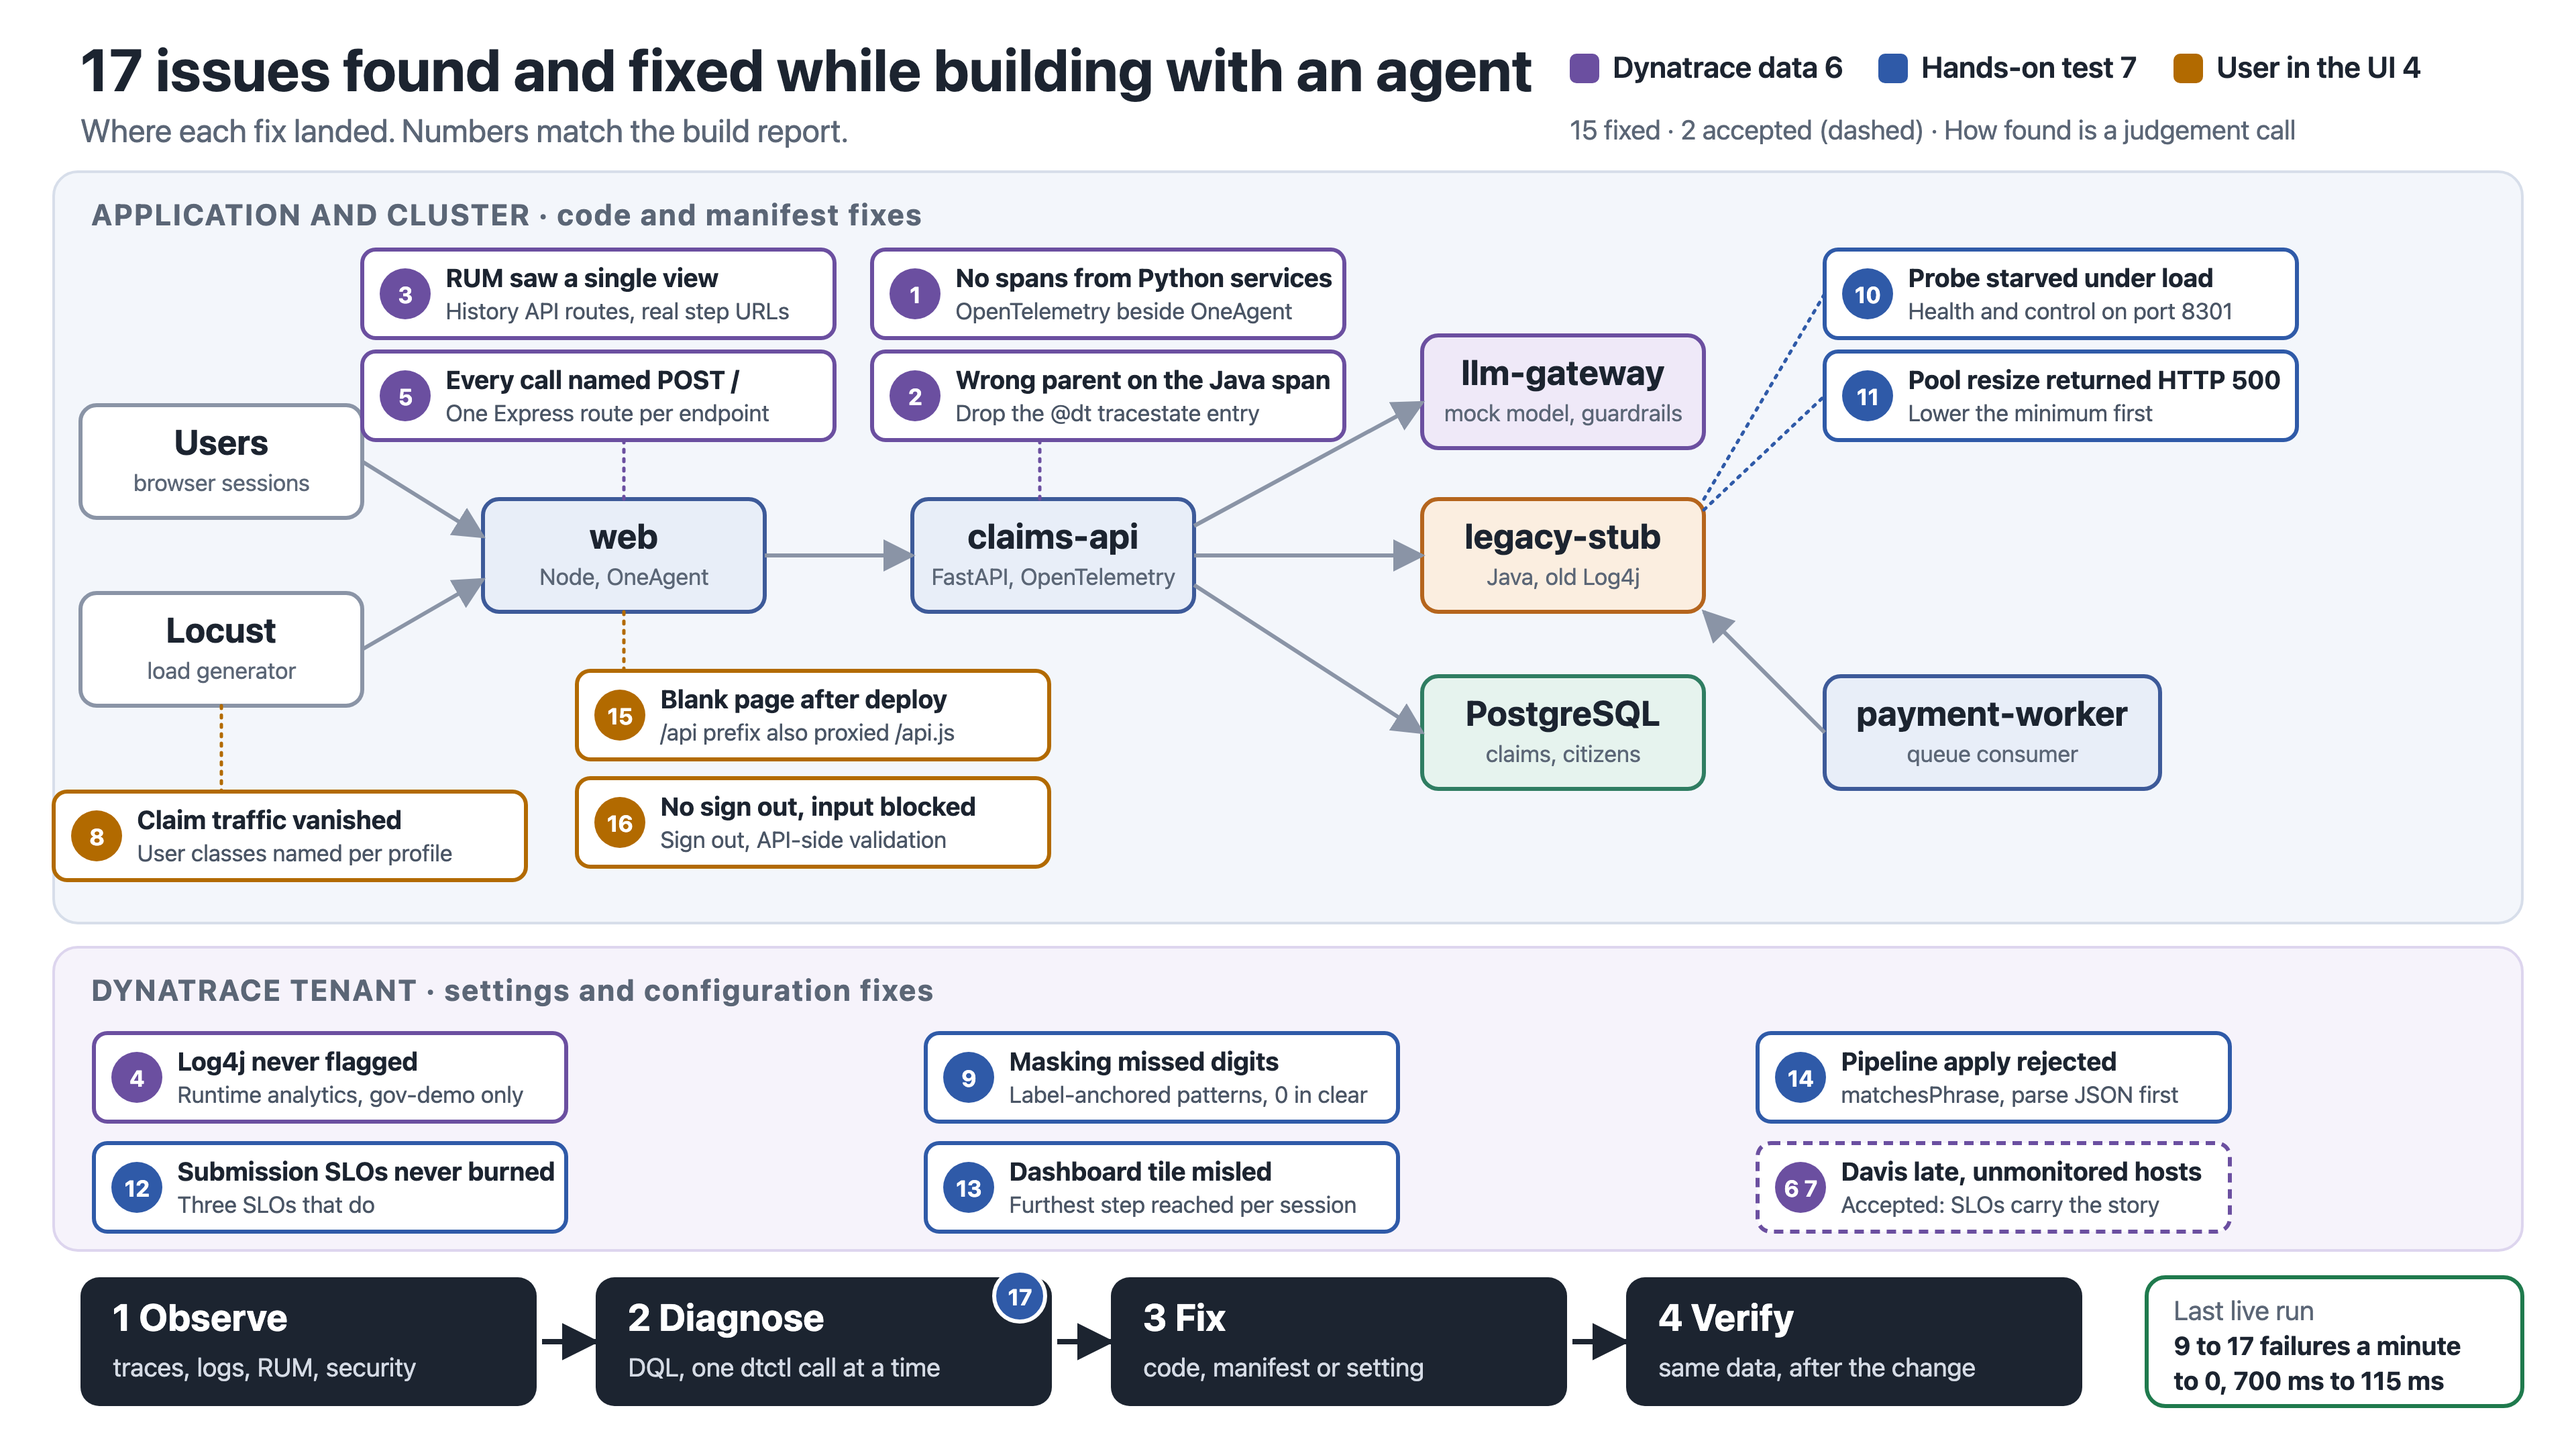
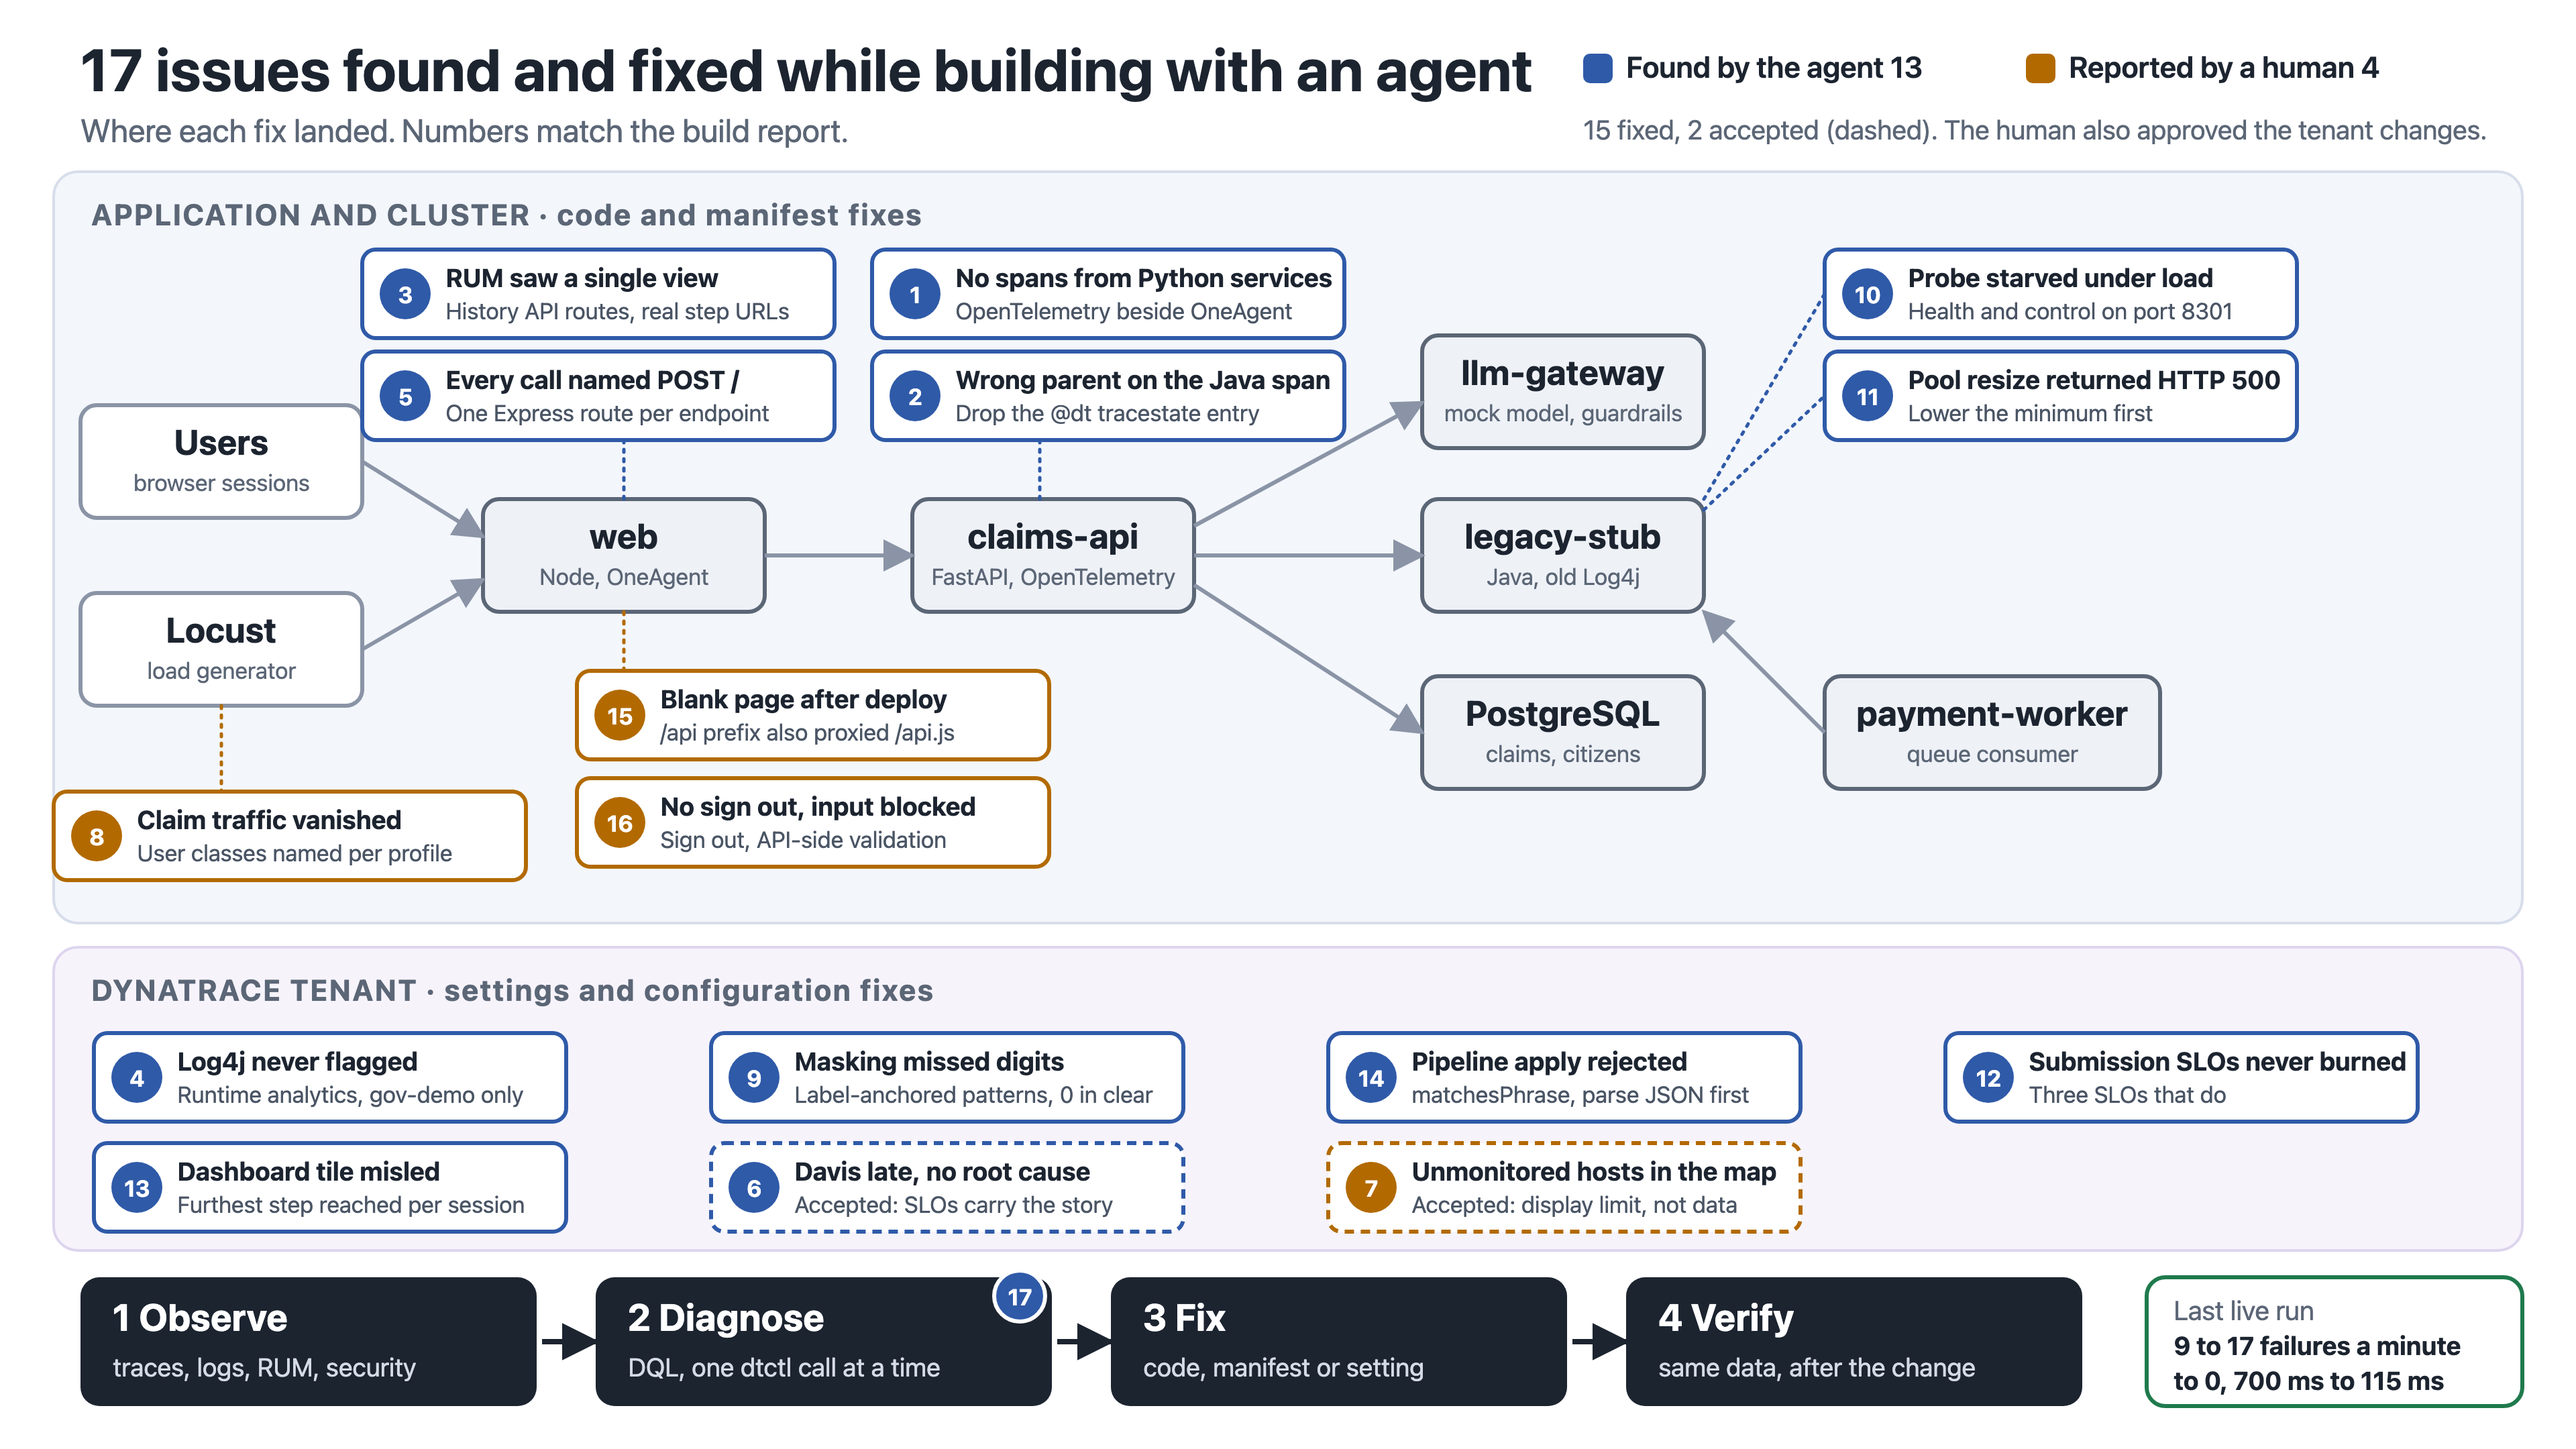
Slide: agent versus human, neutral service boxes, split Davis and topology boxes

diff --git a/gov-demo/docs/fixes-slide.html b/gov-demo/docs/fixes-slide.html
@@ -31,22 +31,22 @@
 <rect x="60" y="442" width="210" height="84" rx="12" fill="#fff" stroke="#8a94a6" stroke-width="3"/>
 <text x="165.0" y="479" class="nn" text-anchor="middle">Locust</text>
 <text x="165.0" y="506" class="ns" text-anchor="middle">load generator</text>
-<rect x="360" y="372" width="210" height="84" rx="12" fill="#e8eef8" stroke="#3d5a99" stroke-width="3"/>
+<rect x="360" y="372" width="210" height="84" rx="12" fill="#eef1f6" stroke="#5b6676" stroke-width="3"/>
 <text x="465.0" y="409" class="nn" text-anchor="middle">web</text>
 <text x="465.0" y="436" class="ns" text-anchor="middle">Node, OneAgent</text>
-<rect x="680" y="372" width="210" height="84" rx="12" fill="#e8eef8" stroke="#3d5a99" stroke-width="3"/>
+<rect x="680" y="372" width="210" height="84" rx="12" fill="#eef1f6" stroke="#5b6676" stroke-width="3"/>
 <text x="785.0" y="409" class="nn" text-anchor="middle">claims-api</text>
 <text x="785.0" y="436" class="ns" text-anchor="middle">FastAPI, OpenTelemetry</text>
-<rect x="1060" y="250" width="210" height="84" rx="12" fill="#efe9f8" stroke="#6b4fa0" stroke-width="3"/>
+<rect x="1060" y="250" width="210" height="84" rx="12" fill="#eef1f6" stroke="#5b6676" stroke-width="3"/>
 <text x="1165.0" y="287" class="nn" text-anchor="middle">llm-gateway</text>
 <text x="1165.0" y="314" class="ns" text-anchor="middle">mock model, guardrails</text>
-<rect x="1060" y="372" width="210" height="84" rx="12" fill="#fbeee0" stroke="#b5651d" stroke-width="3"/>
+<rect x="1060" y="372" width="210" height="84" rx="12" fill="#eef1f6" stroke="#5b6676" stroke-width="3"/>
 <text x="1165.0" y="409" class="nn" text-anchor="middle">legacy-stub</text>
 <text x="1165.0" y="436" class="ns" text-anchor="middle">Java, old Log4j</text>
-<rect x="1060" y="504" width="210" height="84" rx="12" fill="#e6f3ee" stroke="#2f7d62" stroke-width="3"/>
+<rect x="1060" y="504" width="210" height="84" rx="12" fill="#eef1f6" stroke="#5b6676" stroke-width="3"/>
 <text x="1165.0" y="541" class="nn" text-anchor="middle">PostgreSQL</text>
 <text x="1165.0" y="568" class="ns" text-anchor="middle">claims, citizens</text>
-<rect x="1360" y="504" width="250" height="84" rx="12" fill="#e8eef8" stroke="#3d5a99" stroke-width="3"/>
+<rect x="1360" y="504" width="250" height="84" rx="12" fill="#eef1f6" stroke="#5b6676" stroke-width="3"/>
 <text x="1485.0" y="541" class="nn" text-anchor="middle">payment-worker</text>
 <text x="1485.0" y="568" class="ns" text-anchor="middle">queue consumer</text>
 <line x1="270" y1="344" x2="360" y2="400" class="edge" marker-end="url(#ah)"/>
@@ -56,17 +56,17 @@
 <line x1="890" y1="414" x2="1060" y2="414" class="edge" marker-end="url(#ah)"/>
 <line x1="890" y1="436" x2="1060" y2="546" class="edge" marker-end="url(#ah)"/>
 <line x1="1360" y1="546" x2="1270" y2="456" class="edge" marker-end="url(#ah)"/>
-<rect x="270" y="186" width="352" height="66" rx="10" fill="#fff" stroke="#6b4fa0" stroke-width="3"/>
-<circle cx="302" cy="219.0" r="19" fill="#6b4fa0"/>
+<rect x="270" y="186" width="352" height="66" rx="10" fill="#fff" stroke="#2f5aa8" stroke-width="3"/>
+<circle cx="302" cy="219.0" r="19" fill="#2f5aa8"/>
 <text x="302" y="226.0" class="bn" text-anchor="middle">3</text>
 <text x="332" y="214" class="c1">RUM saw a single view</text>
 <text x="332" y="238" class="c2">History API routes, real step URLs</text>
-<rect x="270" y="262" width="352" height="66" rx="10" fill="#fff" stroke="#6b4fa0" stroke-width="3"/>
-<circle cx="302" cy="295.0" r="19" fill="#6b4fa0"/>
+<rect x="270" y="262" width="352" height="66" rx="10" fill="#fff" stroke="#2f5aa8" stroke-width="3"/>
+<circle cx="302" cy="295.0" r="19" fill="#2f5aa8"/>
 <text x="302" y="302.0" class="bn" text-anchor="middle">5</text>
 <text x="332" y="290" class="c1">Every call named POST /</text>
 <text x="332" y="314" class="c2">One Express route per endpoint</text>
-<line x1="465" y1="328" x2="465" y2="372" stroke="#6b4fa0" stroke-width="2.5" stroke-dasharray="2 5" stroke-linecap="round"/>
+<line x1="465" y1="328" x2="465" y2="372" stroke="#2f5aa8" stroke-width="2.5" stroke-dasharray="2 5" stroke-linecap="round"/>
 <rect x="430" y="500" width="352" height="66" rx="10" fill="#fff" stroke="#b26a00" stroke-width="3"/>
 <circle cx="462" cy="533.0" r="19" fill="#b26a00"/>
 <text x="462" y="540.0" class="bn" text-anchor="middle">15</text>
@@ -78,17 +78,17 @@
 <text x="492" y="608" class="c1">No sign out, input blocked</text>
 <text x="492" y="632" class="c2">Sign out, API-side validation</text>
 <line x1="465" y1="456" x2="465" y2="500" stroke="#b26a00" stroke-width="2.5" stroke-dasharray="2 5" stroke-linecap="round"/>
-<rect x="650" y="186" width="352" height="66" rx="10" fill="#fff" stroke="#6b4fa0" stroke-width="3"/>
-<circle cx="682" cy="219.0" r="19" fill="#6b4fa0"/>
+<rect x="650" y="186" width="352" height="66" rx="10" fill="#fff" stroke="#2f5aa8" stroke-width="3"/>
+<circle cx="682" cy="219.0" r="19" fill="#2f5aa8"/>
 <text x="682" y="226.0" class="bn" text-anchor="middle">1</text>
 <text x="712" y="214" class="c1">No spans from Python services</text>
 <text x="712" y="238" class="c2">OpenTelemetry beside OneAgent</text>
-<rect x="650" y="262" width="352" height="66" rx="10" fill="#fff" stroke="#6b4fa0" stroke-width="3"/>
-<circle cx="682" cy="295.0" r="19" fill="#6b4fa0"/>
+<rect x="650" y="262" width="352" height="66" rx="10" fill="#fff" stroke="#2f5aa8" stroke-width="3"/>
+<circle cx="682" cy="295.0" r="19" fill="#2f5aa8"/>
 <text x="682" y="302.0" class="bn" text-anchor="middle">2</text>
 <text x="712" y="290" class="c1">Wrong parent on the Java span</text>
 <text x="712" y="314" class="c2">Drop the @dt tracestate entry</text>
-<line x1="775" y1="328" x2="775" y2="372" stroke="#6b4fa0" stroke-width="2.5" stroke-dasharray="2 5" stroke-linecap="round"/>
+<line x1="775" y1="328" x2="775" y2="372" stroke="#2f5aa8" stroke-width="2.5" stroke-dasharray="2 5" stroke-linecap="round"/>
 <rect x="1360" y="186" width="352" height="66" rx="10" fill="#fff" stroke="#2f5aa8" stroke-width="3"/>
 <circle cx="1392" cy="219.0" r="19" fill="#2f5aa8"/>
 <text x="1392" y="226.0" class="bn" text-anchor="middle">10</text>
@@ -107,45 +107,48 @@
 <text x="102" y="618" class="c1">Claim traffic vanished</text>
 <text x="102" y="642" class="c2">User classes named per profile</text>
 <line x1="165" y1="526" x2="165" y2="590" stroke="#b26a00" stroke-width="2.5" stroke-dasharray="2 5" stroke-linecap="round"/>
-<rect x="70" y="770" width="352" height="66" rx="10" fill="#fff" stroke="#6b4fa0" stroke-width="3"/>
-<circle cx="102" cy="803.0" r="19" fill="#6b4fa0"/>
+<rect x="70" y="770" width="352" height="66" rx="10" fill="#fff" stroke="#2f5aa8" stroke-width="3"/>
+<circle cx="102" cy="803.0" r="19" fill="#2f5aa8"/>
 <text x="102" y="810.0" class="bn" text-anchor="middle">4</text>
 <text x="132" y="798" class="c1">Log4j never flagged</text>
 <text x="132" y="822" class="c2">Runtime analytics, gov-demo only</text>
-<rect x="690" y="770" width="352" height="66" rx="10" fill="#fff" stroke="#2f5aa8" stroke-width="3"/>
-<circle cx="722" cy="803.0" r="19" fill="#2f5aa8"/>
-<text x="722" y="810.0" class="bn" text-anchor="middle">9</text>
-<text x="752" y="798" class="c1">Masking missed digits</text>
-<text x="752" y="822" class="c2">Label-anchored patterns, 0 in clear</text>
-<rect x="1310" y="770" width="352" height="66" rx="10" fill="#fff" stroke="#2f5aa8" stroke-width="3"/>
-<circle cx="1342" cy="803.0" r="19" fill="#2f5aa8"/>
-<text x="1342" y="810.0" class="bn" text-anchor="middle">14</text>
-<text x="1372" y="798" class="c1">Pipeline apply rejected</text>
-<text x="1372" y="822" class="c2">matchesPhrase, parse JSON first</text>
+<rect x="530" y="770" width="352" height="66" rx="10" fill="#fff" stroke="#2f5aa8" stroke-width="3"/>
+<circle cx="562" cy="803.0" r="19" fill="#2f5aa8"/>
+<text x="562" y="810.0" class="bn" text-anchor="middle">9</text>
+<text x="592" y="798" class="c1">Masking missed digits</text>
+<text x="592" y="822" class="c2">Label-anchored patterns, 0 in clear</text>
+<rect x="990" y="770" width="352" height="66" rx="10" fill="#fff" stroke="#2f5aa8" stroke-width="3"/>
+<circle cx="1022" cy="803.0" r="19" fill="#2f5aa8"/>
+<text x="1022" y="810.0" class="bn" text-anchor="middle">14</text>
+<text x="1052" y="798" class="c1">Pipeline apply rejected</text>
+<text x="1052" y="822" class="c2">matchesPhrase, parse JSON first</text>
+<rect x="1450" y="770" width="352" height="66" rx="10" fill="#fff" stroke="#2f5aa8" stroke-width="3"/>
+<circle cx="1482" cy="803.0" r="19" fill="#2f5aa8"/>
+<text x="1482" y="810.0" class="bn" text-anchor="middle">12</text>
+<text x="1512" y="798" class="c1">Submission SLOs never burned</text>
+<text x="1512" y="822" class="c2">Three SLOs that do</text>
 <rect x="70" y="852" width="352" height="66" rx="10" fill="#fff" stroke="#2f5aa8" stroke-width="3"/>
 <circle cx="102" cy="885.0" r="19" fill="#2f5aa8"/>
-<text x="102" y="892.0" class="bn" text-anchor="middle">12</text>
-<text x="132" y="880" class="c1">Submission SLOs never burned</text>
-<text x="132" y="904" class="c2">Three SLOs that do</text>
-<rect x="690" y="852" width="352" height="66" rx="10" fill="#fff" stroke="#2f5aa8" stroke-width="3"/>
-<circle cx="722" cy="885.0" r="19" fill="#2f5aa8"/>
-<text x="722" y="892.0" class="bn" text-anchor="middle">13</text>
-<text x="752" y="880" class="c1">Dashboard tile misled</text>
-<text x="752" y="904" class="c2">Furthest step reached per session</text>
-<rect x="1310" y="852" width="352" height="66" rx="10" fill="#fff" stroke="#6b4fa0" stroke-width="3" stroke-dasharray="7 5"/>
-<circle cx="1342" cy="885.0" r="19" fill="#6b4fa0"/>
-<text x="1342" y="892.0" class="bn" text-anchor="middle">6 7</text>
-<text x="1372" y="880" class="c1">Davis late, unmonitored hosts</text>
-<text x="1372" y="904" class="c2">Accepted: SLOs carry the story</text>
+<text x="102" y="892.0" class="bn" text-anchor="middle">13</text>
+<text x="132" y="880" class="c1">Dashboard tile misled</text>
+<text x="132" y="904" class="c2">Furthest step reached per session</text>
+<rect x="530" y="852" width="352" height="66" rx="10" fill="#fff" stroke="#2f5aa8" stroke-width="3" stroke-dasharray="7 5"/>
+<circle cx="562" cy="885.0" r="19" fill="#2f5aa8"/>
+<text x="562" y="892.0" class="bn" text-anchor="middle">6</text>
+<text x="592" y="880" class="c1">Davis late, no root cause</text>
+<text x="592" y="904" class="c2">Accepted: SLOs carry the story</text>
+<rect x="990" y="852" width="352" height="66" rx="10" fill="#fff" stroke="#b26a00" stroke-width="3" stroke-dasharray="7 5"/>
+<circle cx="1022" cy="885.0" r="19" fill="#b26a00"/>
+<text x="1022" y="892.0" class="bn" text-anchor="middle">7</text>
+<text x="1052" y="880" class="c1">Unmonitored hosts in the map</text>
+<text x="1052" y="904" class="c2">Accepted: display limit, not data</text>
 <text x="60" y="68" class="title">17 issues found and fixed while building with an agent</text>
 <text x="60" y="106" class="subtitle">Where each fix landed. Numbers match the build report.</text>
-<rect x="1170" y="40" width="22" height="22" rx="5" fill="#6b4fa0"/>
-<text x="1202" y="58" class="leg">Dynatrace data 6</text>
-<rect x="1400" y="40" width="22" height="22" rx="5" fill="#2f5aa8"/>
-<text x="1432" y="58" class="leg">Hands-on test 7</text>
-<rect x="1620" y="40" width="22" height="22" rx="5" fill="#b26a00"/>
-<text x="1652" y="58" class="leg">User in the UI 4</text>
-<text x="1170" y="104" class="leg2">15 fixed · 2 accepted (dashed) · How found is a judgement call</text>
+<rect x="1180" y="40" width="22" height="22" rx="5" fill="#2f5aa8"/>
+<text x="1212" y="58" class="leg">Found by the agent 13</text>
+<rect x="1510" y="40" width="22" height="22" rx="5" fill="#b26a00"/>
+<text x="1542" y="58" class="leg">Reported by a human 4</text>
+<text x="1180" y="104" class="leg2">15 fixed, 2 accepted (dashed). The human also approved the tenant changes.</text>
 <rect x="60" y="952" width="340" height="96" rx="14" fill="#1c2430"/>
 <text x="84" y="992" class="st">1  Observe</text>
 <text x="84" y="1026" class="ss">traces, logs, RUM, security</text>
